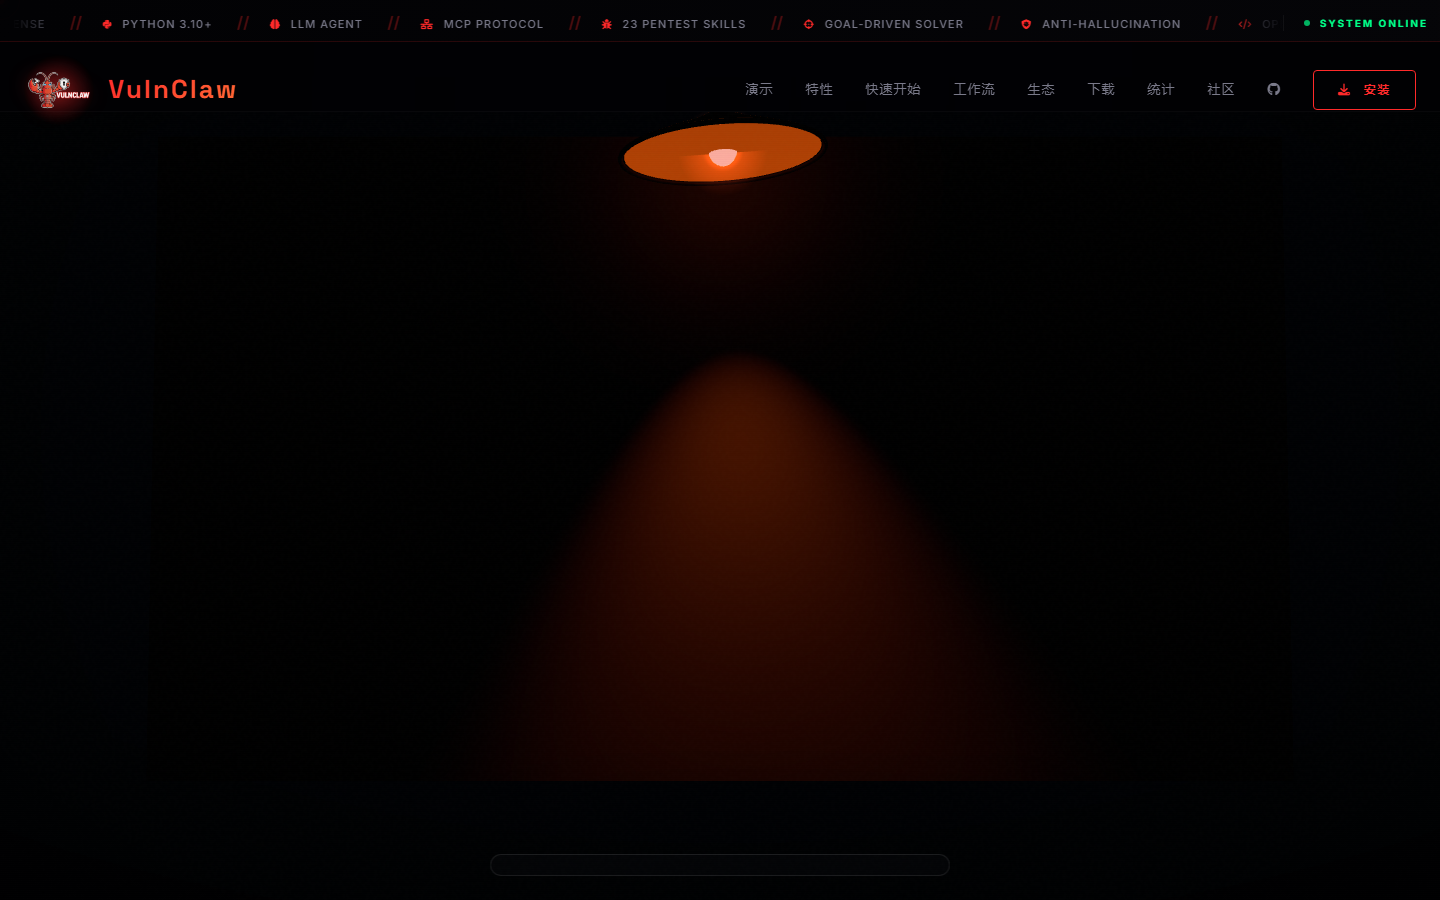
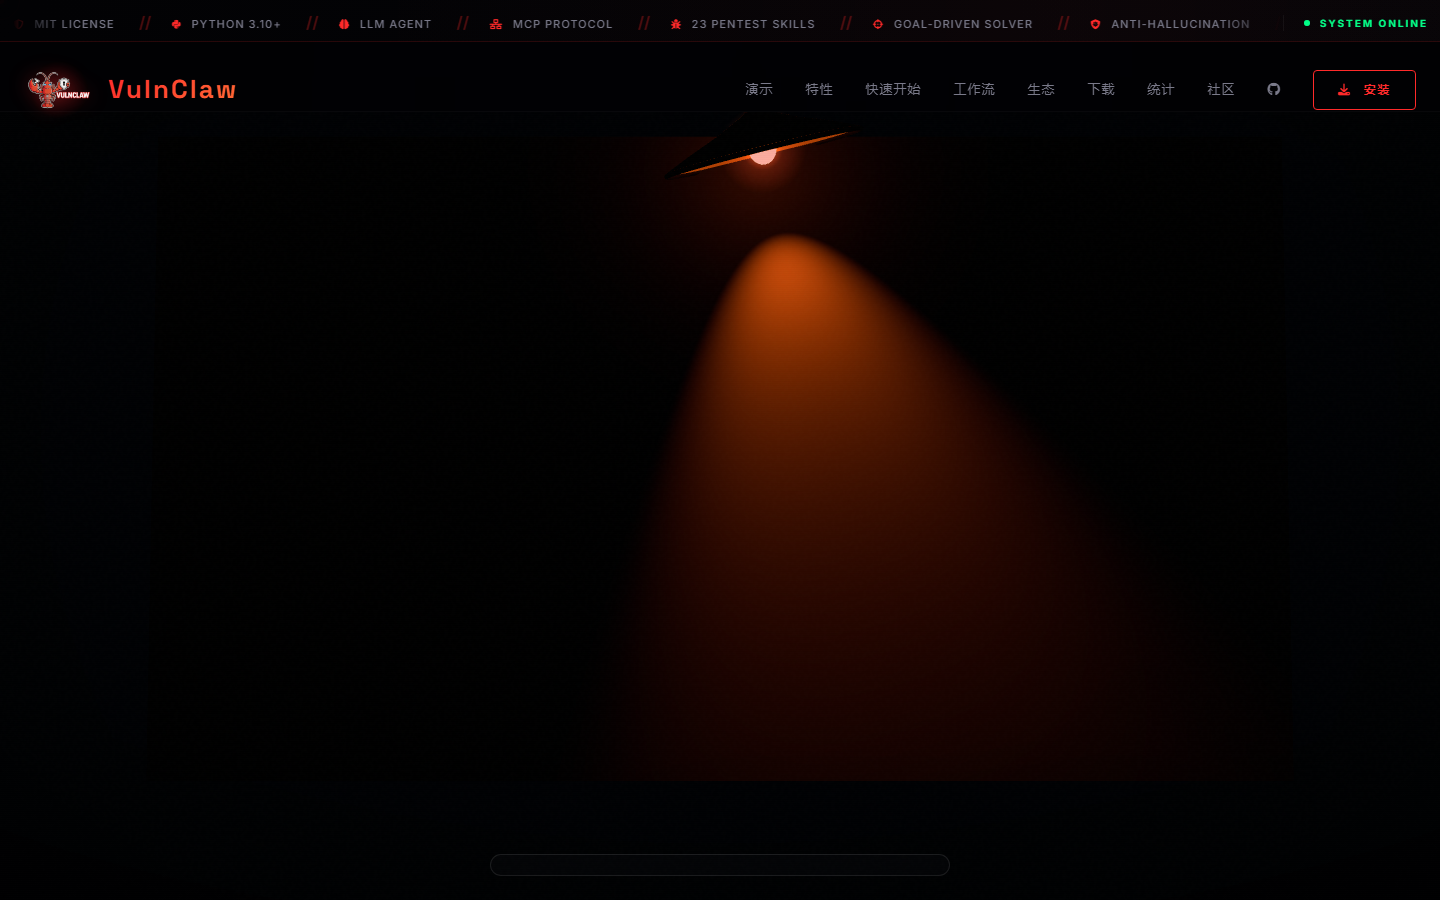
perf: disable expensive WebGL tunnel/mouse trail/particles when lightCanvas exists; remove webglCanvas; add IntersectionObserver, cap DPR, throttle HTMLTexture paints

diff --git a/light-experience.js b/light-experience.js
@@ -53,6 +53,26 @@ function clamp(value, min, max) {
 function lerp(a, b, t) {
   return a + (b - a) * t;
 }
+function throttle(fn, limitMs) {
+  let last = 0;
+  let pending = null;
+  return function (...args) {
+    const now = performance.now();
+    if (now - last >= limitMs) {
+      last = now;
+      fn.apply(this, args);
+      return;
+    }
+    if (!pending) {
+      pending = setTimeout(() => {
+        pending = null;
+        last = performance.now();
+        fn.apply(this, args);
+      }, limitMs - (now - last));
+    }
+  };
+}
+
 
 function hexToUpper(hex) {
   return hex.toUpperCase();
@@ -331,6 +351,7 @@ function hexToUpper(hex) {
   let frame = 0;
   let animationFrame = 0;
   let resizeFrame = 0;
+  let heroVisible = true;
   let lastTime = performance.now();
   let accumulator = 0;
   let stableFrames = 0;
@@ -343,11 +364,23 @@ function hexToUpper(hex) {
   let beamStartY = 0;
   let beamStartAngle = INITIAL_LIGHT.angle;
   let beamDragged = false;
+  let lastPaintTime = 0;
+  const IDLE_PAINT_INTERVAL = 200;
+
+  function requestPaintThrottled(force = false) {
+    if (!canvas.requestPaint) return;
+    const now = performance.now();
+    const isIdle = !pulling && stableFrames >= 80 && ready;
+    if (force || !isIdle || now - lastPaintTime >= IDLE_PAINT_INTERVAL) {
+      lastPaintTime = now;
+      canvas.requestPaint();
+    }
+  }
 
   function resize() {
     const width = Math.max(1, canvas.clientWidth);
     const height = Math.max(1, canvas.clientHeight);
-    const dpr = Math.min(window.devicePixelRatio || 1, width < 760 ? 1.25 : 1.5);
+    const dpr = Math.min(window.devicePixelRatio || 1, width < 760 ? 1.0 : 1.25);
     renderer.setPixelRatio(dpr);
     renderer.setSize(width, height, false);
     camera.aspect = width / height;
@@ -386,7 +419,7 @@ function hexToUpper(hex) {
     camera.lookAt(0, pageGroup.position.y + upwardTarget, 0);
     camera.updateMatrixWorld();
     interactions.update();
-    canvas.requestPaint?.();
+    requestPaintThrottled();
     wake();
   }
 
@@ -443,6 +476,7 @@ function hexToUpper(hex) {
   function animate(time) {
     animationFrame = 0;
     if (disposed) return;
+    if (!heroVisible) return;
 
     const delta = Math.min((time - lastTime) / 1000, 0.05);
     lastTime = time;
@@ -464,7 +498,7 @@ function hexToUpper(hex) {
 
   function wake() {
     stableFrames = 0;
-    if (!animationFrame && !disposed) {
+    if (!animationFrame && !disposed && heroVisible) {
       lastTime = performance.now();
       animationFrame = requestAnimationFrame(animate);
     }
@@ -596,6 +630,22 @@ function hexToUpper(hex) {
     cancelAnimationFrame(resizeFrame);
     resizeFrame = requestAnimationFrame(resize);
   }
+  const heroEl = document.getElementById('hero');
+  if (heroEl && 'IntersectionObserver' in window) {
+    const heroObserver = new IntersectionObserver((entries) => {
+      entries.forEach((entry) => {
+        heroVisible = entry.isIntersecting;
+        if (heroVisible) {
+          wake();
+        } else if (animationFrame) {
+          cancelAnimationFrame(animationFrame);
+          animationFrame = 0;
+        }
+      });
+    }, { threshold: 0 });
+    heroObserver.observe(heroEl);
+  }
+
 
   function onPaint() {
     wake();
@@ -608,10 +658,10 @@ function hexToUpper(hex) {
   canvas.addEventListener('pointerdown', onPointerDown);
   canvas.addEventListener('dblclick', resetMotion);
   canvas.addEventListener('contextmenu', onContextMenu);
-  window.addEventListener('pointermove', onPointerMove, { passive: true });
+  window.addEventListener('pointermove', throttle(onPointerMove, 16), { passive: true });
   window.addEventListener('pointerup', onPointerUp);
   window.addEventListener('pointercancel', onPointerUp);
-  window.addEventListener('resize', onResize, { passive: true });
+  window.addEventListener('resize', throttle(onResize, 120), { passive: true });
   canvas.addEventListener('paint', onPaint);
 
   function updateLightRig() {
@@ -636,7 +686,7 @@ function hexToUpper(hex) {
     undersideMaterial.emissiveIntensity = lighting.enabled ? 0.22 + lighting.brightness / 7250 : 0.03;
 
     pageSource.style.setProperty('--lamp-color', lighting.color);
-    canvas.requestPaint?.();
+    requestPaintThrottled();
     wake();
   }
 
@@ -682,7 +732,7 @@ function hexToUpper(hex) {
       btn.classList.toggle('is-active', active);
       btn.setAttribute('aria-pressed', String(active));
     });
-    canvas.requestPaint?.();
+    requestPaintThrottled();
   }
 
   conceptButtons.forEach((btn) => {
@@ -747,7 +797,7 @@ function hexToUpper(hex) {
 
   void document.fonts.ready.then(() => {
     if (disposed) return;
-    canvas.requestPaint?.();
+    requestPaintThrottled();
     resize();
     updateRig();
     updateLightDOM();

diff --git a/script.js b/script.js
@@ -2,9 +2,13 @@
 // WebGL 3D Particle Tunnel + Cyberpunk Effects + Advanced Interactions
 
 document.addEventListener('DOMContentLoaded', function() {
+    const hasLightCanvas = !!document.getElementById('lightCanvas');
+
     initCustomCursor();
     initScrollProgress();
-    initWebGL();
+    if (!hasLightCanvas) {
+        initWebGL();
+    }
     initSmoothScrolling();
     initScrollAnimations();
     initHeaderScroll();
@@ -15,8 +19,10 @@ document.addEventListener('DOMContentLoaded', function() {
     initGlitchEffect();
     initParallaxEffect();
     initTerminalScroll();
-    initMouseTrail();
-    initFloatingParticles();
+    if (!hasLightCanvas) {
+        initMouseTrail();
+        initFloatingParticles();
+    }
     initFeatureCardTilt();
     initStats();
 });

diff --git a/index.html b/index.html
@@ -98,9 +98,6 @@
     <!-- Scroll Progress Bar -->
     <div class="scroll-progress"></div>
 
-    <!-- WebGL Background Canvas -->
-    <canvas id="webglCanvas"></canvas>
-
     <!-- Top Bar -->
     <div class="top-bar">
         <div class="container-fluid">
